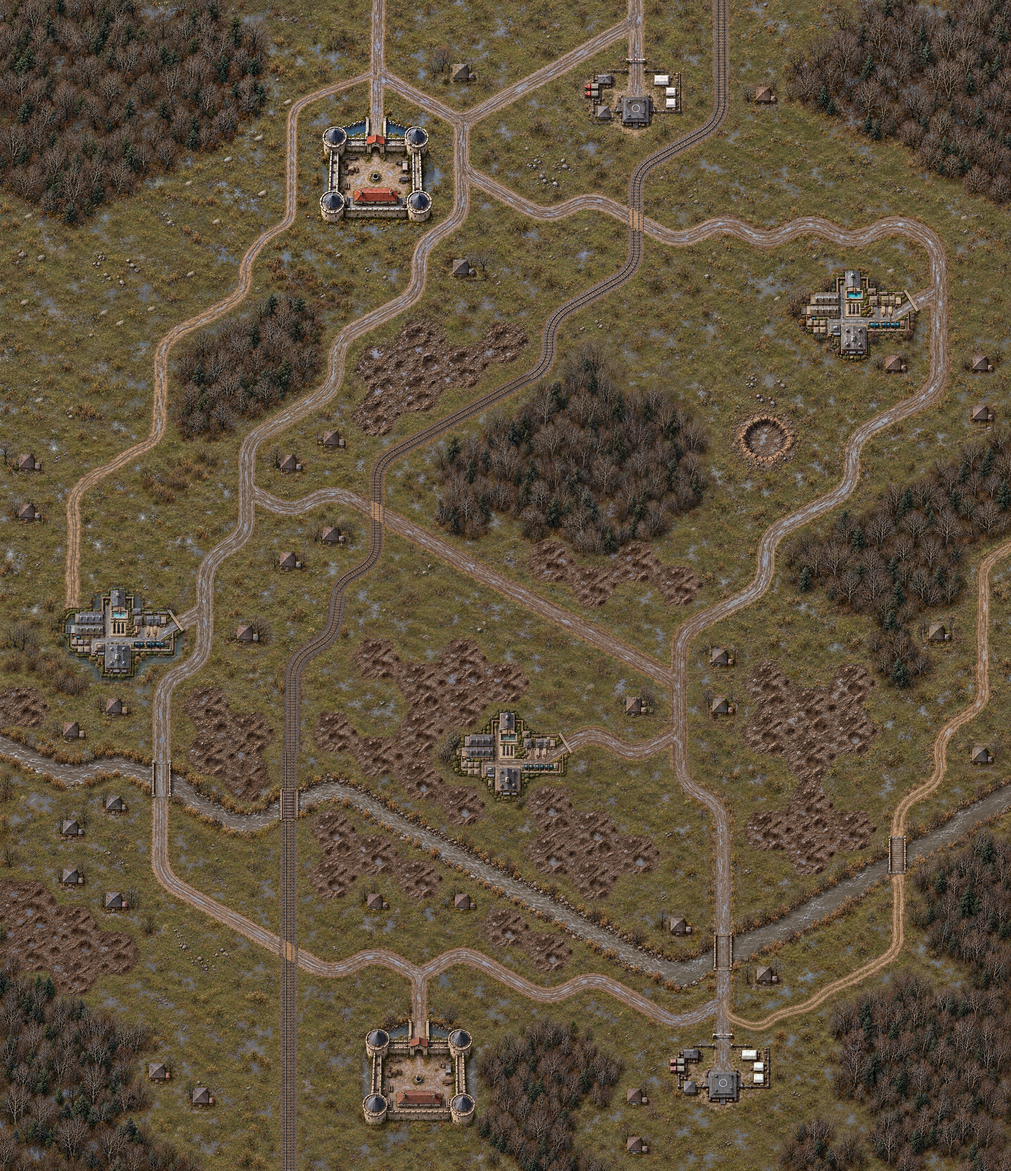
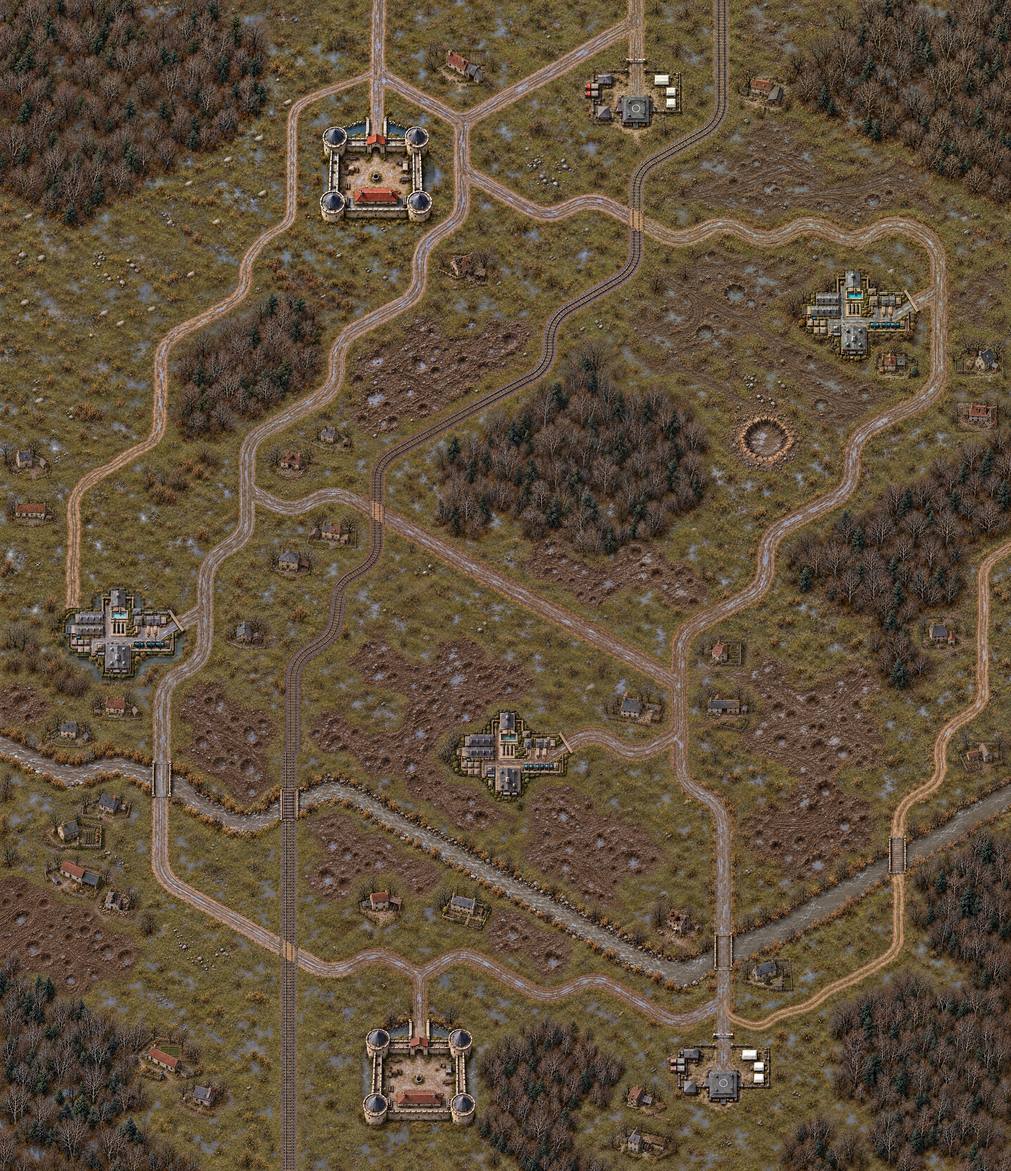
Crouy backdrop: individual houses and merged mud fields
Every section repainted from the installed backdrop: the stamped huts become
individual farmsteads, cottages, a mill and shell-damaged ruins on the same
hexes, and each group of touching mud blobs becomes one rutted clay field with
water-filled shell holes. (The previous commit's message names the French HQ;
the west path joins the road at the German HQ gate.)

diff --git a/docs/painted-backdrops.md b/docs/painted-backdrops.md
@@ -10,8 +10,9 @@ all at 1536/1090 ≈ 1.41 image px per world px. MOUSE/SPORT (`1914-12.jpg`, 285
 NOISE/TEMPO (`1915-04.jpg`, 3657×4206) uses about 1.64 image px per world px, with budding spring
 trees, damp grass and puddled lanes after a shower.
 CROUY/AISNE (`1915-01.jpg`, 2852×3302) uses MOUSE's density, with a rainy January thaw: wet dormant
-olive meadow with standing water, bare woods with a few conifers, brown clay mud fields with shell holes
-and a swollen grey-brown Aisne under flat raincloud light.
+olive meadow with standing water, bare woods with a few conifers, rutted clay mud fields with
+water-filled shell holes and a swollen grey-brown Aisne under flat raincloud light. Every house is an
+individual farmstead, cottage, mill or ruin.
 RIGHT/BARON (`1915-06.jpg`, 2852×3302) returns to 1.72 image px per world px, with full summer foliage,
 warm sunshine and saturated clay, deep ruts and dirty puddles around the trenches. Its southern
 mountains form a connected rocky massif; gravel approaches blend building streets into dirt paths.
